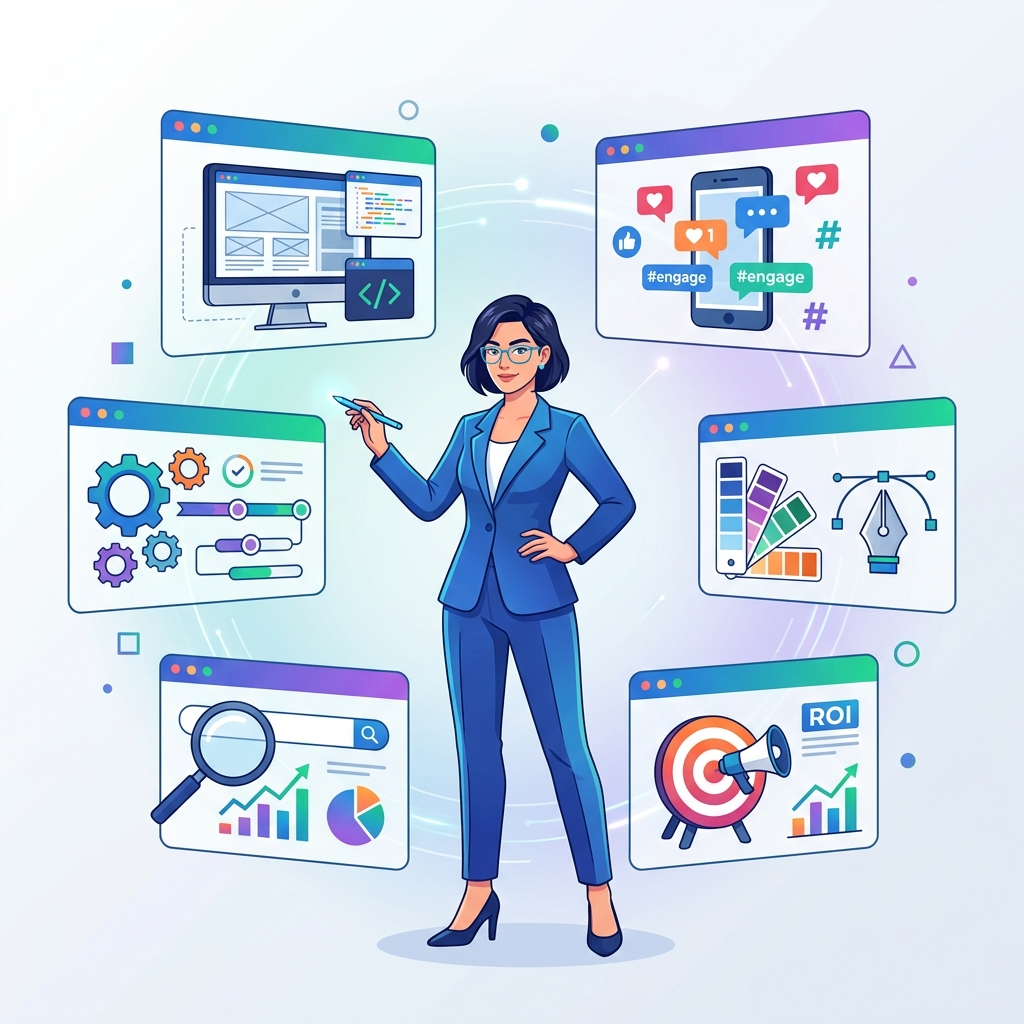
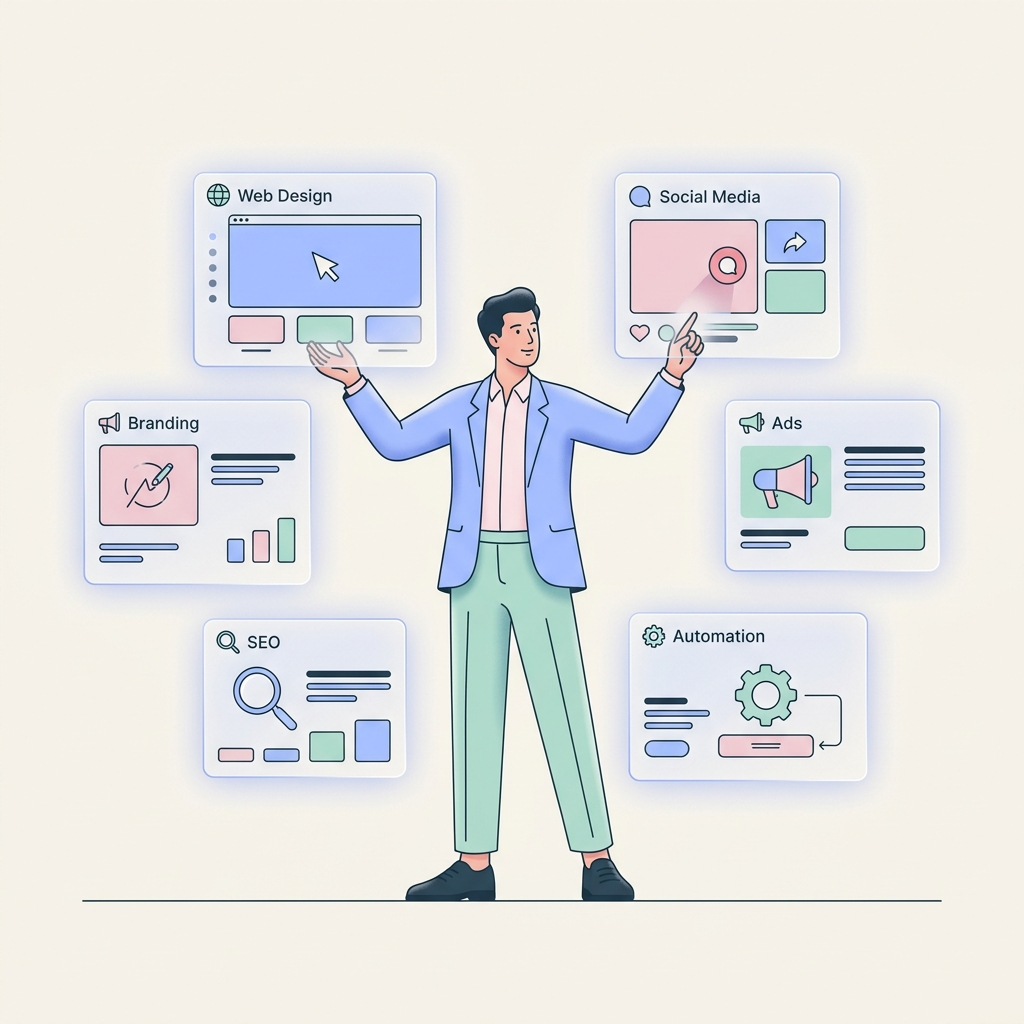
og image push

diff --git a/src/app/components/Hero.tsx b/src/app/components/Hero.tsx
@@ -190,7 +190,7 @@ export default function Hero() {
         >
           <div className="inline-flex items-center gap-2 rounded-full border border-border bg-surface px-5 py-2 text-sm font-bold shadow-sm">
             <span className="flex h-2 w-2 rounded-full bg-brand-primary animate-pulse"></span>
-            Better Websites. More Leads.
+            BizzGrowLabs: Your Digital Growth Partner.
           </div>
         </motion.div>
 
